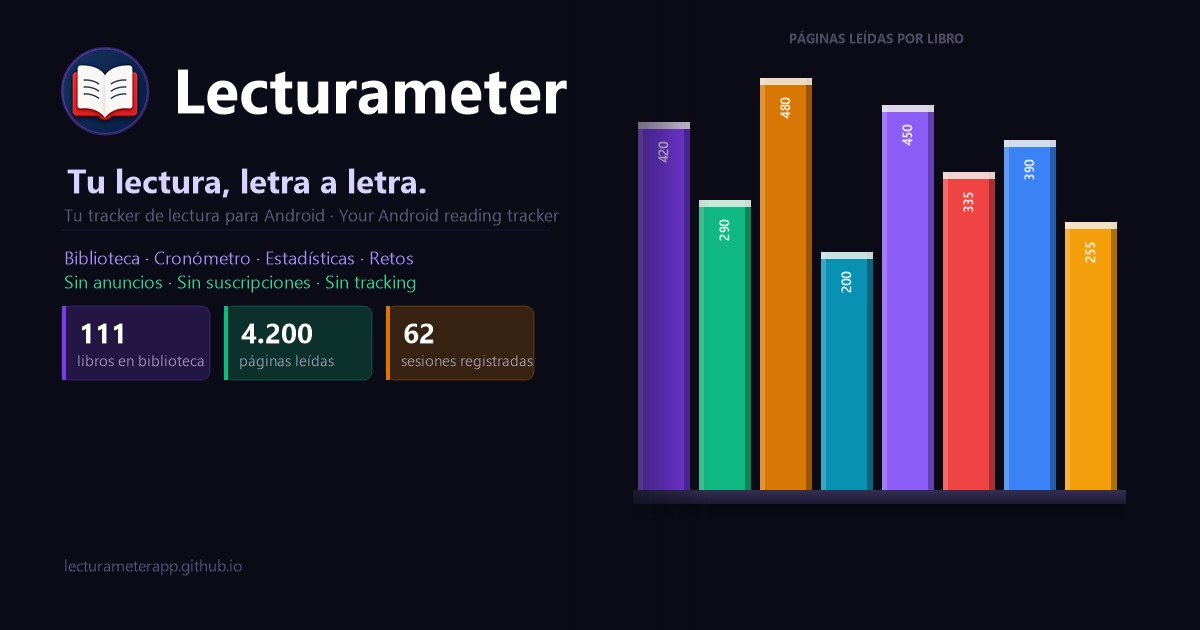
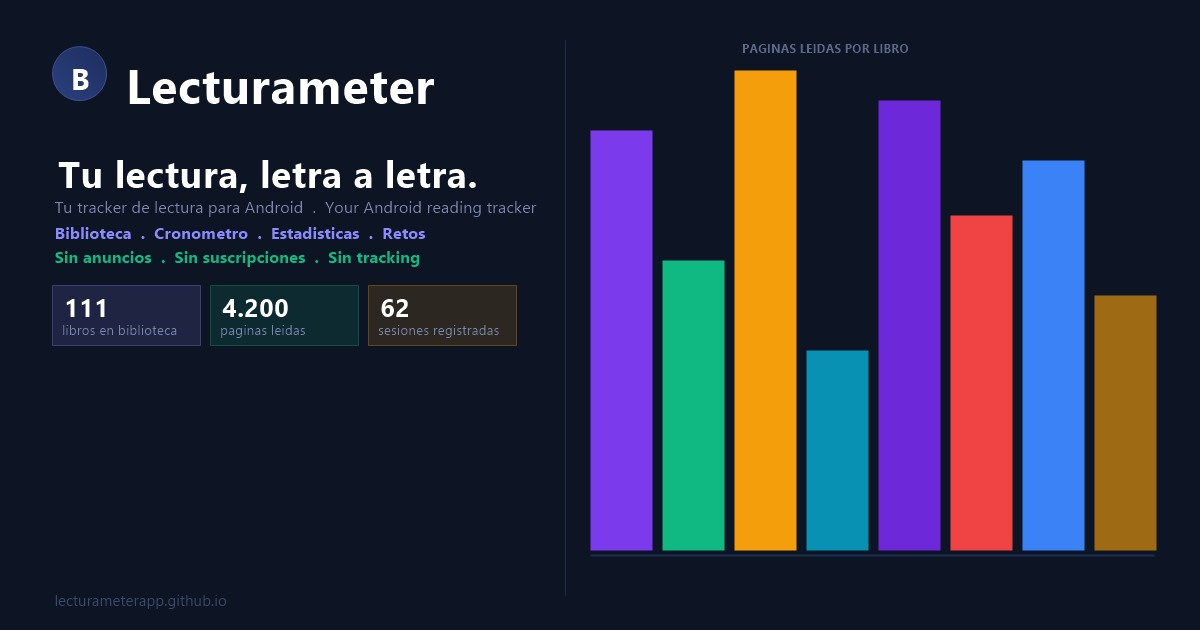
web: widget images renamed, social card without bar numbers
- Rename widget files (spaces -> underscores): widget_libro_es/en, widget_pro_es/en
- Remove old captura_widget_libro_* and widget_pro_*.jpg originals
- Update index.html references to match new filenames
- Regenerate social_card.jpg 1200x630 without numeric labels on bars

diff --git a/index.html b/index.html
@@ -426,14 +426,14 @@
                     <h3 class="widget-type-label">Widget de libro</h3>
                     <p class="widget-type-desc">Ve de un vistazo tu progreso en el libro actual: dias, tiempo, sesiones, paginas y porcentaje.</p>
                     <div class="widget-demo book-widget">
-                        <img src="captura_widget_libro_es.jpg?v=250718l" alt="Widget de libro en pantalla de inicio" loading="lazy">
+                        <img src="widget_libro_es.png" alt="Widget de libro en pantalla de inicio" loading="lazy">
                     </div>
                 </div>
                 <div class="widget-column">
                     <h3 class="widget-type-label">Widget de comparativa mensual <span class="pro-badge-sm">PRO</span></h3>
                     <p class="widget-type-desc">Compara tu mes actual con el anterior. Barras verdes y rojas para ver al instante si vas mejor o peor.</p>
                     <div class="widget-demo widget-nobg">
-                        <img src="widget_pro_es.png?v=250718l" alt="Widget de comparativa mensual en pantalla de inicio" loading="lazy">
+                        <img src="widget_pro_es.png" alt="Widget de comparativa mensual en pantalla de inicio" loading="lazy">
                     </div>
                 </div>
             </div>
@@ -845,14 +845,14 @@
                     <h3 class="widget-type-label">Book widget</h3>
                     <p class="widget-type-desc">See your current book progress at a glance: days, time, sessions, pages and percentage.</p>
                     <div class="widget-demo book-widget">
-                        <img src="captura_widget_libro_en.jpg?v=250718l" alt="Book widget on home screen" loading="lazy">
+                        <img src="widget_libro_en.png" alt="Book widget on home screen" loading="lazy">
                     </div>
                 </div>
                 <div class="widget-column">
                     <h3 class="widget-type-label">Monthly comparison widget <span class="pro-badge-sm">PRO</span></h3>
                     <p class="widget-type-desc">Compare your current month with the previous one. Green and red bars to instantly see if you're doing better or worse.</p>
                     <div class="widget-demo widget-nobg">
-                        <img src="widget_pro_en.png?v=250718l" alt="Monthly comparison widget on home screen" loading="lazy">
+                        <img src="widget_pro_en.png" alt="Monthly comparison widget on home screen" loading="lazy">
                     </div>
                 </div>
             </div>
